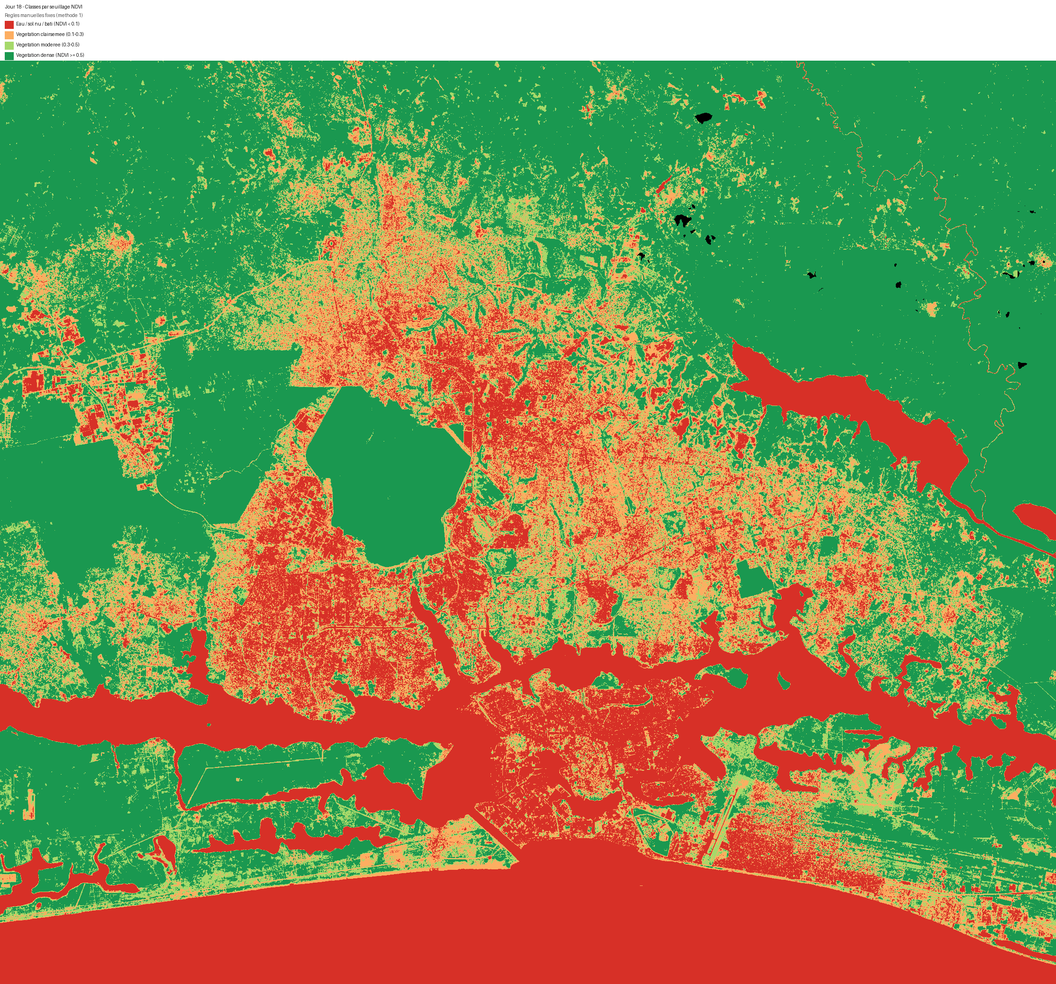
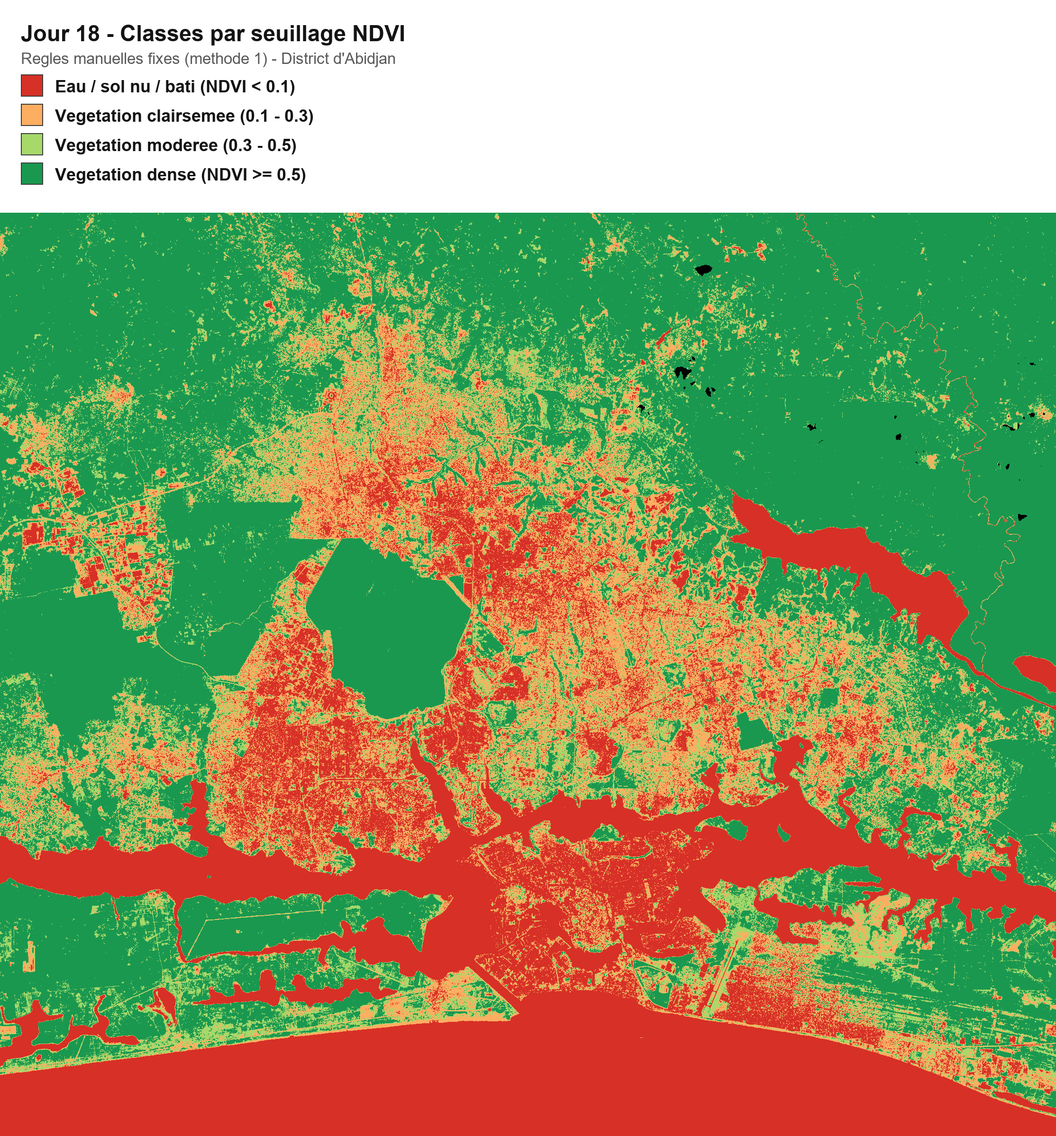
fix(Jour 18): legendes illisibles -- police dimensionnee selon la resolution
Les PNG precedents utilisaient la police PIL par defaut (bitmap fixe,
quelques pixels) sur des images de 2000px+ de large -- texte totalement
illisible en pratique. Nouveau rendu : polices Arial chargees a taille
proportionnelle a la largeur de l'image (titre/sous-titre/labels),
verifie visuellement avant commit.

diff --git a/Jour 18/scripts/fix_legendes.py b/Jour 18/scripts/fix_legendes.py
@@ -1,0 +1,177 @@
+#!/usr/bin/env python3
+"""
+Regenere les PNG avec legende du Jour 18 a partir des GeoTIFF deja
+exportes -- correction de lisibilite : legende avec police chargee a
+taille proportionnelle a la resolution de l'image (le rendu precedent
+utilisait la police par defaut PIL, minuscule sur des images 2000px+).
+"""
+from pathlib import Path
+
+import numpy as np
+import rasterio
+from PIL import Image, ImageDraw, ImageFont
+
+BASE_DIR = Path(__file__).resolve().parent.parent
+MAPS_DIR = BASE_DIR / "maps"
+
+FONT_BOLD = "C:/Windows/Fonts/arialbd.ttf"
+FONT_REGULAR = "C:/Windows/Fonts/arial.ttf"
+
+COLOR_STOPS_NDVI = [
+    (0.0, (127, 29, 29)), (0.25, (180, 83, 9)), (0.5, (254, 240, 138)),
+    (0.75, (74, 222, 128)), (1.0, (22, 101, 52)),
+]
+CLASS_COLORS = {1: (215, 48, 39), 2: (253, 174, 97), 3: (166, 217, 106), 4: (26, 152, 80)}
+CLASS_LABELS_THRESHOLD = {
+    1: "Eau / sol nu / bati (NDVI < 0.1)",
+    2: "Vegetation clairsemee (0.1 - 0.3)",
+    3: "Vegetation moderee (0.3 - 0.5)",
+    4: "Vegetation dense (NDVI >= 0.5)",
+}
+CLUSTER_LABELS = {
+    1: "Cluster 1 (non supervise)",
+    2: "Cluster 2 (non supervise)",
+    3: "Cluster 3 (non supervise)",
+    4: "Cluster 4 (non supervise)",
+}
+
+
+def interpolate_color(value, stops):
+    positions = [s[0] for s in stops]
+    r = np.interp(value, positions, [s[1][0] for s in stops])
+    g = np.interp(value, positions, [s[1][1] for s in stops])
+    b = np.interp(value, positions, [s[1][2] for s in stops])
+    return r, g, b
+
+
+def scaled_fonts(img_width):
+    """Taille de police proportionnelle a la largeur reelle de l'image,
+    avec un plancher lisible meme sur les petites images."""
+    unit = max(img_width / 70, 22)
+    title_size = int(unit * 1.5)
+    subtitle_size = int(unit * 1.05)
+    label_size = int(unit * 1.15)
+    return (
+        ImageFont.truetype(FONT_BOLD, title_size),
+        ImageFont.truetype(FONT_REGULAR, subtitle_size),
+        ImageFont.truetype(FONT_BOLD, label_size),
+    )
+
+
+def render_continuous_png(tif_path, out_path, vmin, vmax, title, subtitle):
+    with rasterio.open(tif_path) as src:
+        arr = src.read(1).astype(float)
+        nodata_mask = src.read_masks(1) == 0
+
+    norm = np.clip((arr - vmin) / (vmax - vmin), 0, 1)
+    r, g, b = interpolate_color(norm, COLOR_STOPS_NDVI)
+    rgb = np.stack([r, g, b], axis=-1).astype(np.uint8)
+    alpha = np.where(nodata_mask, 0, 255).astype(np.uint8)
+    rgba = np.dstack([rgb, alpha])
+
+    img = Image.fromarray(rgba, mode="RGBA")
+    if img.width < 1400:
+        scale = 1400 / img.width
+        img = img.resize((int(img.width * scale), int(img.height * scale)), Image.NEAREST)
+
+    font_title, font_subtitle, font_label = scaled_fonts(img.width)
+    margin = int(img.width * 0.02)
+    bar_h = int(img.width * 0.022)
+    legend_h = int(img.width * 0.14)
+
+    canvas = Image.new("RGB", (img.width, img.height + legend_h), (255, 255, 255))
+    canvas.paste(img.convert("RGB"), (0, legend_h))
+    draw = ImageDraw.Draw(canvas)
+
+    y = margin
+    draw.text((margin, y), title, fill=(20, 20, 20), font=font_title)
+    y += int(font_title.size * 1.3)
+    draw.text((margin, y), subtitle, fill=(90, 90, 90), font=font_subtitle)
+    y += int(font_subtitle.size * 1.5)
+
+    bar_w = img.width - 2 * margin
+    bar_y = y
+    for x in range(bar_w):
+        t = x / bar_w
+        rr, gg, bb = interpolate_color(t, COLOR_STOPS_NDVI)
+        draw.line([(margin + x, bar_y), (margin + x, bar_y + bar_h)], fill=(int(rr), int(gg), int(bb)))
+    draw.rectangle([margin, bar_y, margin + bar_w, bar_y + bar_h], outline=(60, 60, 60), width=2)
+
+    label_y = bar_y + bar_h + int(font_label.size * 0.3)
+    draw.text((margin, label_y), f"{vmin}", fill=(20, 20, 20), font=font_label)
+    max_text = f"{vmax}"
+    tw = draw.textlength(max_text, font=font_label)
+    draw.text((margin + bar_w - tw, label_y), max_text, fill=(20, 20, 20), font=font_label)
+    mid_text = "NDVI"
+    mtw = draw.textlength(mid_text, font=font_label)
+    draw.text((margin + bar_w / 2 - mtw / 2, label_y), mid_text, fill=(20, 20, 20), font=font_label)
+
+    canvas.save(out_path)
+    print(f"PNG regenere : {out_path} ({canvas.width}x{canvas.height})")
+
+
+def render_classes_png(tif_path, out_path, title, subtitle, labels):
+    with rasterio.open(tif_path) as src:
+        arr = src.read(1)
+        nodata_mask = src.read_masks(1) == 0
+
+    rgb = np.zeros((*arr.shape, 3), dtype=np.uint8)
+    for class_val, color in CLASS_COLORS.items():
+        rgb[arr == class_val] = color
+    alpha = np.where(nodata_mask, 0, 255).astype(np.uint8)
+    rgba = np.dstack([rgb, alpha])
+
+    img = Image.fromarray(rgba, mode="RGBA")
+    if img.width < 1400:
+        scale = 1400 / img.width
+        img = img.resize((int(img.width * scale), int(img.height * scale)), Image.NEAREST)
+
+    font_title, font_subtitle, font_label = scaled_fonts(img.width)
+    margin = int(img.width * 0.02)
+    swatch = int(font_label.size * 1.3)
+    n_classes = len(labels)
+    legend_h = margin + int(font_title.size * 1.3) + int(font_subtitle.size * 1.6) + n_classes * int(swatch * 1.35) + margin
+
+    canvas = Image.new("RGB", (img.width, img.height + legend_h), (255, 255, 255))
+    canvas.paste(img.convert("RGB"), (0, legend_h))
+    draw = ImageDraw.Draw(canvas)
+
+    y = margin
+    draw.text((margin, y), title, fill=(20, 20, 20), font=font_title)
+    y += int(font_title.size * 1.3)
+    draw.text((margin, y), subtitle, fill=(90, 90, 90), font=font_subtitle)
+    y += int(font_subtitle.size * 1.6)
+
+    for class_val, label in labels.items():
+        color = CLASS_COLORS.get(class_val, (128, 128, 128))
+        draw.rectangle([margin, y, margin + swatch, y + swatch], fill=color, outline=(60, 60, 60), width=2)
+        draw.text((margin + swatch + int(margin * 0.6), y + swatch // 2 - font_label.size // 2), label, fill=(20, 20, 20), font=font_label)
+        y += int(swatch * 1.35)
+
+    canvas.save(out_path)
+    print(f"PNG regenere : {out_path} ({canvas.width}x{canvas.height})")
+
+
+def main():
+    render_continuous_png(
+        MAPS_DIR / "01_ndvi_abidjan.tif", MAPS_DIR / "01_ndvi_abidjan.png",
+        vmin=-0.2, vmax=0.8,
+        title="Jour 18 - NDVI, District d'Abidjan",
+        subtitle="Sentinel-2 (Cloud Score+ >= 0.65), composite median, 77 scenes",
+    )
+    render_classes_png(
+        MAPS_DIR / "02_classes_seuillage_abidjan.tif", MAPS_DIR / "02_classes_seuillage_abidjan.png",
+        title="Jour 18 - Classes par seuillage NDVI",
+        subtitle="Regles manuelles fixes (methode 1) - District d'Abidjan",
+        labels=CLASS_LABELS_THRESHOLD,
+    )
+    render_classes_png(
+        MAPS_DIR / "03_classes_kmeans_abidjan.tif", MAPS_DIR / "03_classes_kmeans_abidjan.png",
+        title="Jour 18 - Classes KMeans (non supervise)",
+        subtitle="4 clusters, bandes B2/B3/B4/B8 + NDVI (methode 2)",
+        labels=CLUSTER_LABELS,
+    )
+
+
+if __name__ == "__main__":
+    main()
